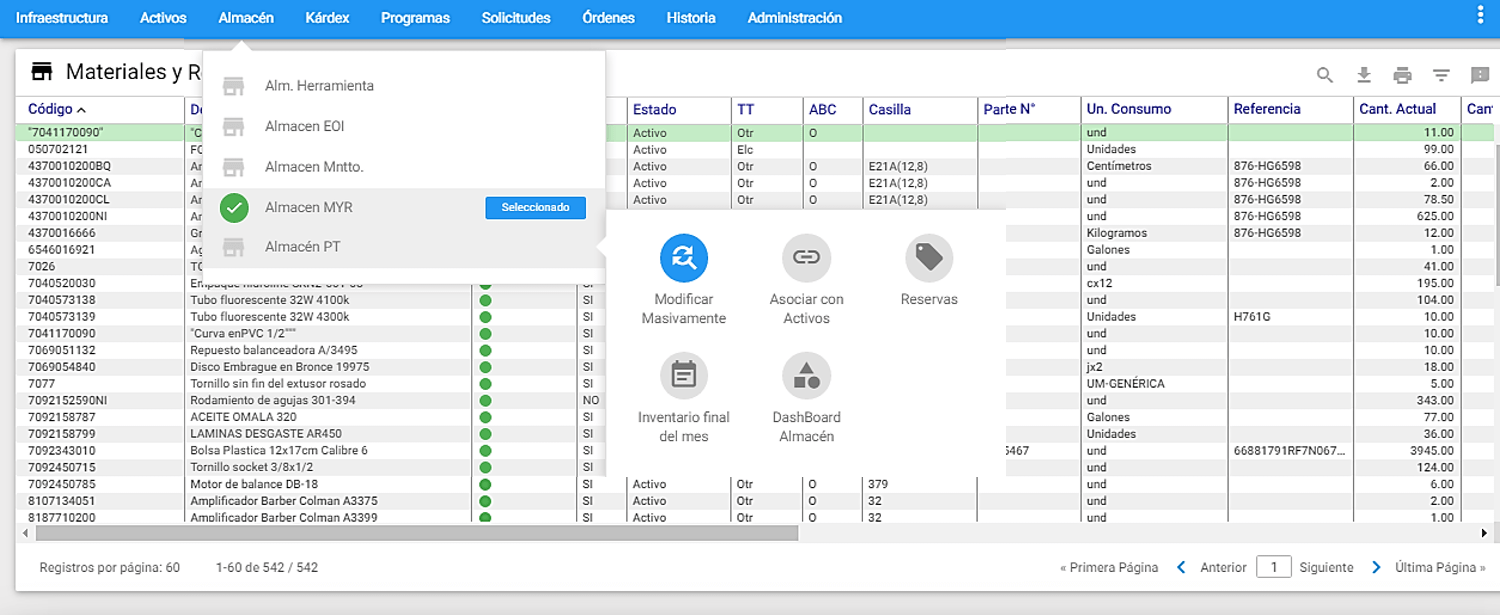
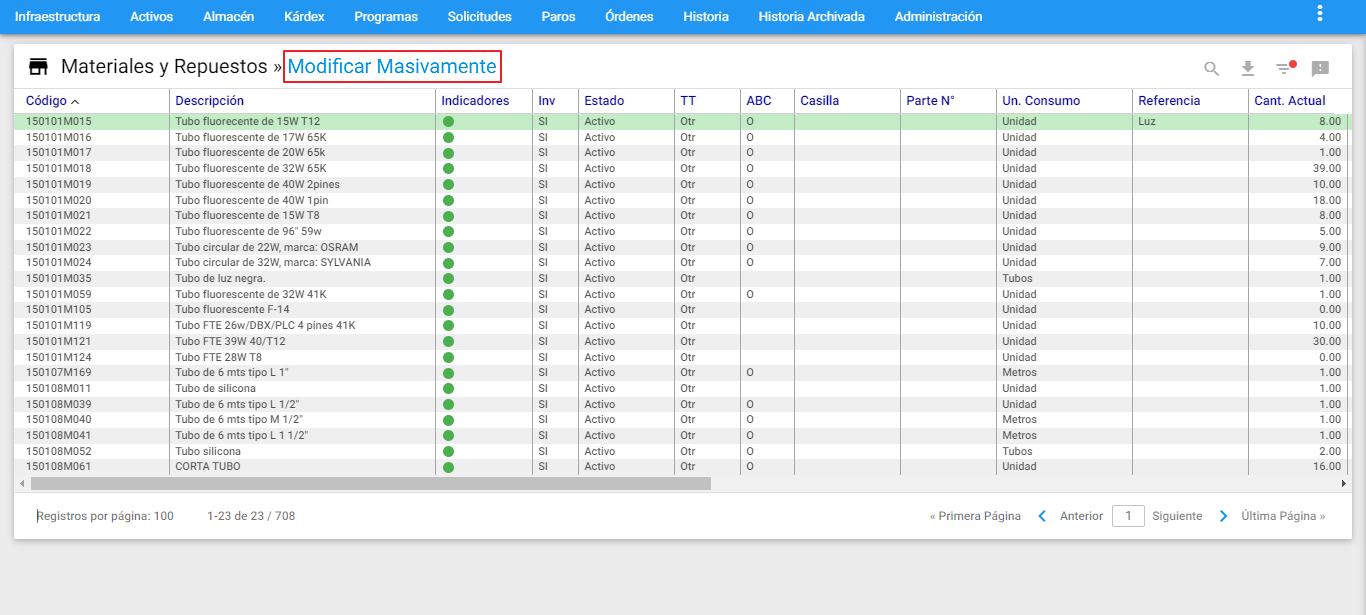
Actualización RP

Changed region(s): [[0.0, 0.0, 1.0, 0.9886], [0.7994, 0.7106, 0.8917, 0.7415], [0.7994, 0.4943, 0.8609, 0.5252]]

diff --git a/_docs/04_04_main_window.md b/_docs/04_04_main_window.md
@@ -301,10 +301,21 @@ Para acceder se requieren permisos correspondientes a "Masificar" en Almacén. E
 ![Procesar imagen](https://ayuda.winsoftware.com.co/assets/images/cap04/chp04_img32.png)
 _**Imagen 32.** Almacén - Ir a Modificación Masiva_
 
+
+>**Nota:** Para continuar con la transacción se debe hacer previamente un Subgrupo, bien sea en el visor de Modificación Masiva o previamente en el Visor del Almacén. 
+
 Una vez se ingrese se muestra de la siguiente forma:
 
+![Procesar imagen](https://ayuda.winsoftware.com.co/assets/images/cap04/chp04_img33.png)
+_**Imagen 33.** Almacén - Visor Modificación Masiva_
+
+Para continuar dar un clic en el botón azul ubicado en la parte superior izquierda en la cual se muestra la Ventana Detalle de Modificación Masiva, asi:
 
 
+![Procesar imagen](https://ayuda.winsoftware.com.co/assets/images/cap04/chp04_img34.png)
+_**Imagen 34.** Almacén - Ventana Detalle Modificación Masiva_
+
+ 
 ### Asociar con Activos
 
 El comando Asociar a Activos del submenú Repuestos permite asociar un  Repuesto con el o los Activos a los que sirve. Esta asociación es opcional, pero es muy útil en caso de necesitar ubicar con facilidad aquellos Repuestos específicos que solo sirven a Activos específicos.
